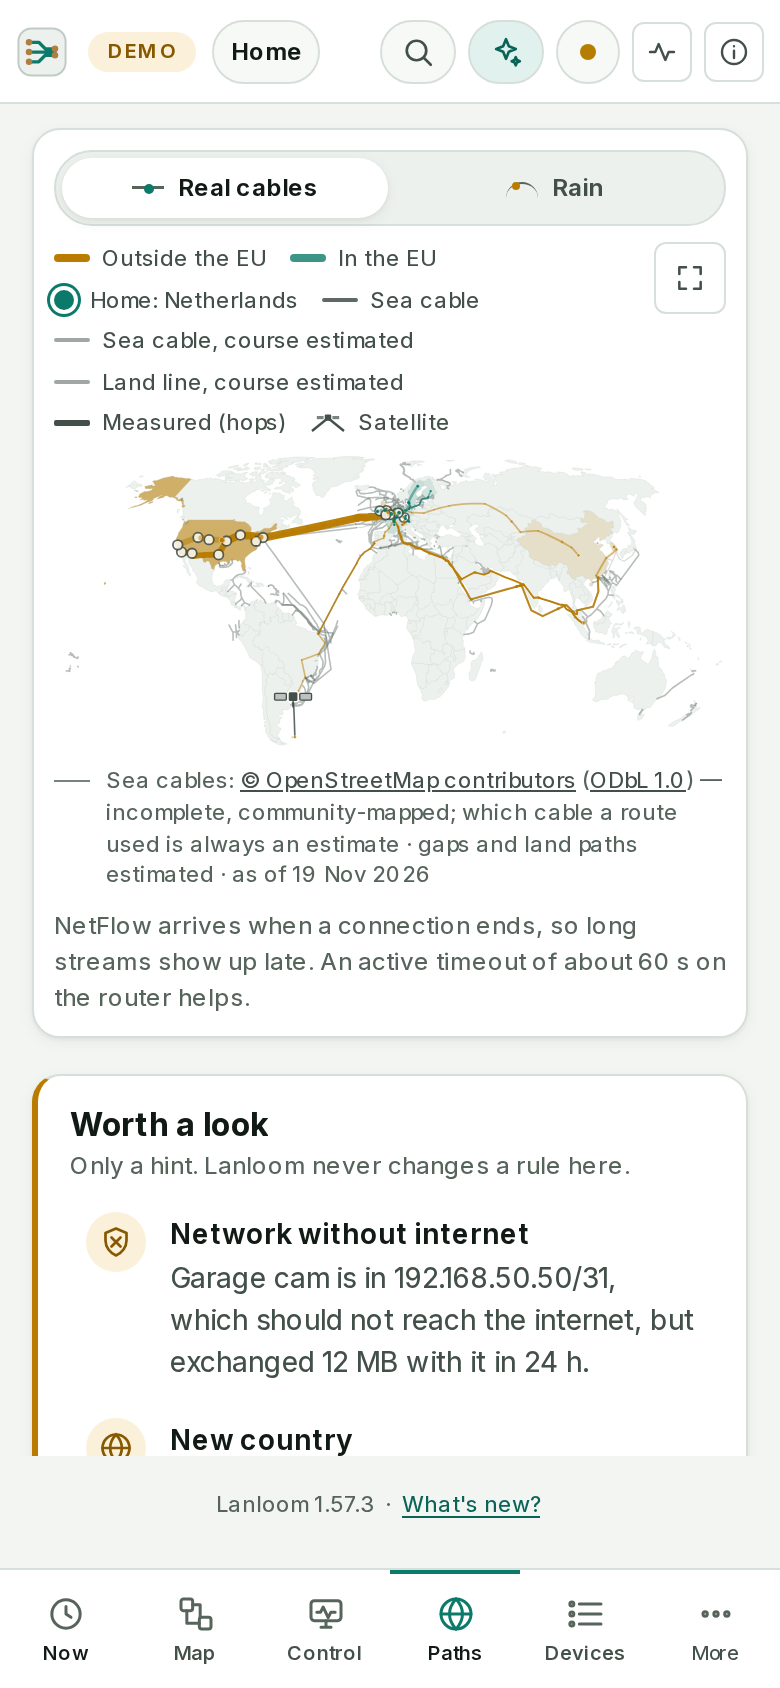
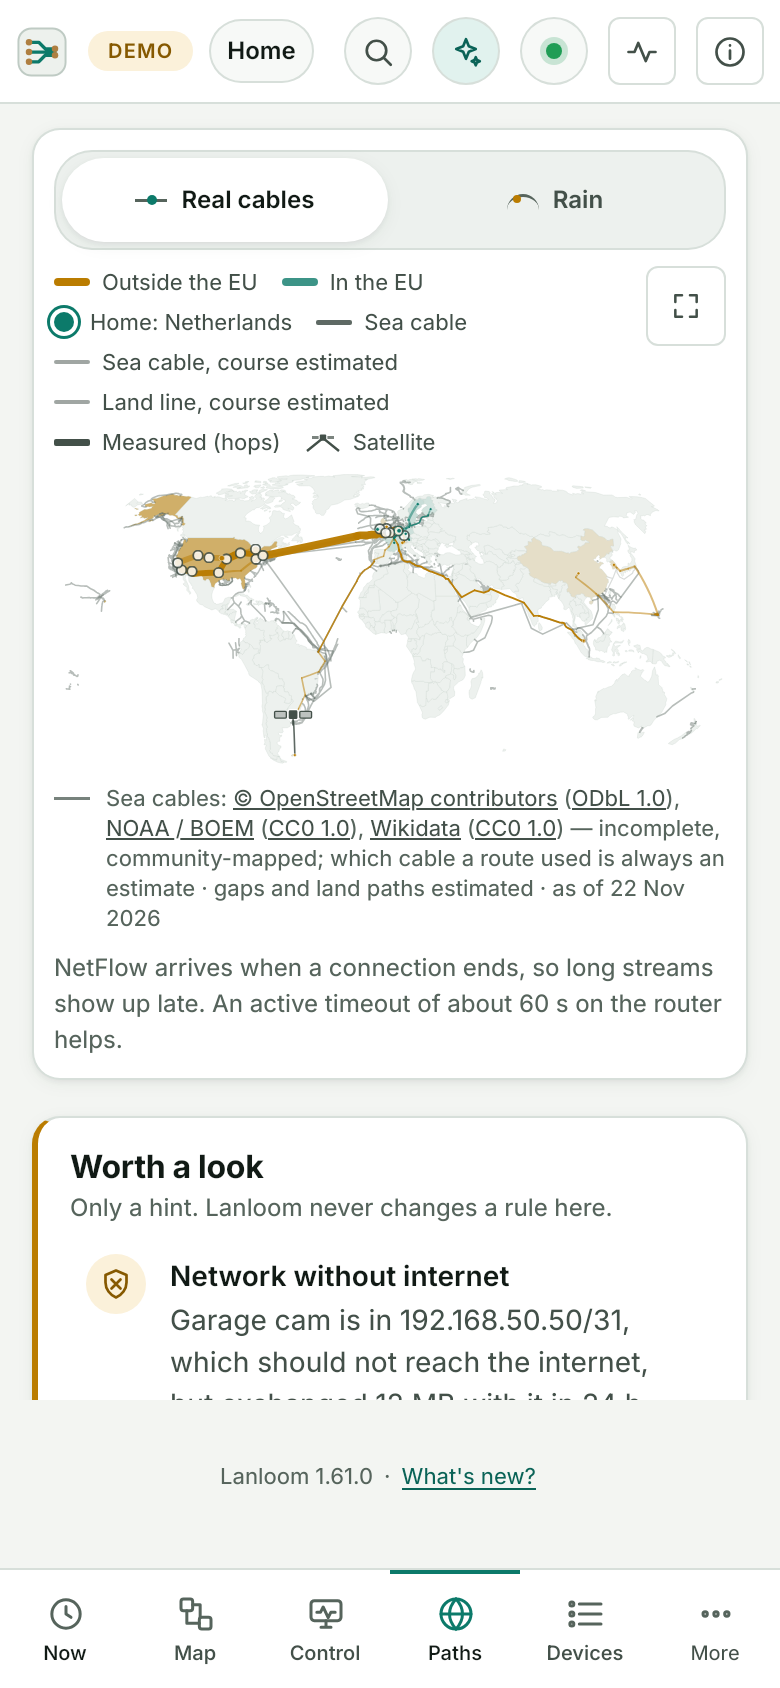
Real cables: source name and licence stay together on one line; README pictures of the view with the open sources

diff --git a/lanloom/web/js/paths_cables.js b/lanloom/web/js/paths_cables.js
@@ -140,8 +140,9 @@
   /* the open sources of the second cable file (lines of national waters, cable facts; CC0): ", <source> (CC0 1.0)" each */
   function openSources(d, first) {
     const list = (d && Array.isArray(d.sources) ? d.sources : []).filter(x => x && x.short && x.url);
-    return list.length ? list.map((x, k) => [k ? ', ' : (first == null ? ', ' : first), h('a', { href: x.url, target: '_blank', rel: 'noopener noreferrer' }, x.short),
-      x.license ? [' (', h('a', { href: x.license_url, target: '_blank', rel: 'noopener noreferrer' }, x.license), ')'] : null]) : null;
+    return list.length ? list.map((x, k) => [k ? ', ' : (first == null ? ', ' : first), h('span', { class: 'cb-src' },
+      h('a', { href: x.url, target: '_blank', rel: 'noopener noreferrer' }, x.short),
+      x.license ? [' (', h('a', { href: x.license_url, target: '_blank', rel: 'noopener noreferrer' }, x.license), ')'] : null)]) : null;
   }
   C.openSources = openSources;
   document.addEventListener('lanloom-paths-cables', () => {

diff --git a/lanloom/web/css/paths_cables.css b/lanloom/web/css/paths_cables.css
@@ -27,6 +27,7 @@
 .cb-attr { display: flex; align-items: baseline; gap: 8px; margin: 0; font-size: var(--ll-fs-xs); color: var(--ll-text-3); line-height: 1.45; min-width: 0; }
 .cb-attr .cb-sw { position: relative; top: -3px; }
 .cb-attr a { color: var(--ll-text-2); }
+.cb-src { white-space: nowrap; }
 .cb-attr span { min-width: 0; overflow-wrap: anywhere; }
 .pw-full__attr { flex-basis: 100%; }
 .pc-attr { padding: 0 4px; }

diff --git a/README.md b/README.md
@@ -313,7 +313,7 @@ The same chain as a stack of circuit boards that you can turn, tilt and zoom: In
 ### Data paths
 
 ![Data paths: Real cables view - every country's traffic runs over infrastructure (sea cables, land lines, a satellite hop to a remote island), bundled strands that get thicker with the traffic, key figures and the period switch](docs/screenshots/paths-cables-light.png)
-<sub>Real cables view of the sample network: only lines, never an arc. Sea cables: © OpenStreetMap contributors (ODbL), incomplete, community-mapped; gaps and land paths are estimated, and which line a way takes is an estimate unless measured routes back it.</sub>
+<sub>Real cables view of the sample network: only lines, never an arc. Sea cables: © OpenStreetMap contributors (ODbL), incomplete, community-mapped, with cable routes of U.S. waters and cable facts from open data (CC0); gaps and land paths are estimated, and which line a way takes is an estimate unless measured routes back it.</sub>
 
 <table>
 <tr>
